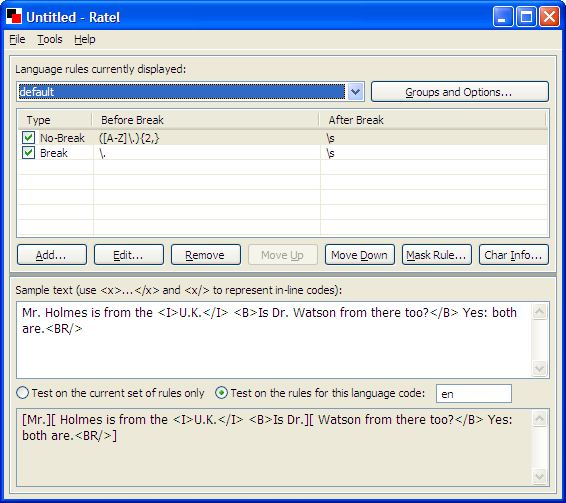
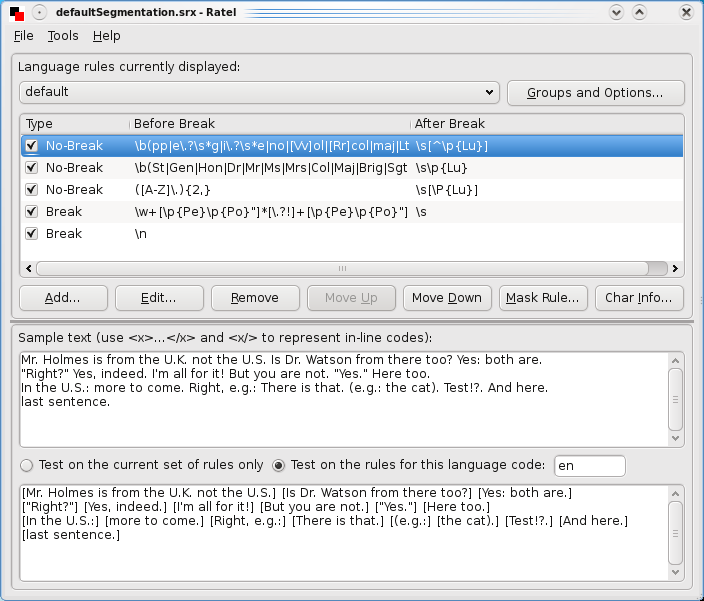
Replaced a screen shot of Ratel on XP by one on Kubuntu.
git-svn-id: https://okapi.googlecode.com/svn/trunk@3449 0cd2bb99-014b-0410-b875-5d0485b745ed

diff --git a/website/screenshots.html b/website/screenshots.html
@@ -97,9 +97,9 @@ Properties filter component (on Windows Vista):</p>
 <h2>
 <b><a name="ratel"></a></b> Ratel</h2>
 <p align="center">
-<b>Ratel</b> - The main window (on Windows XP):</p>
+<b>Ratel</b> - The main window (on Kubuntu):</p>
 <p align="center">
-<img border="0" src="images/ratel1.png" width="566" height="503"></p>
+<img border="0" src="images/ratel1.png" width="704" height="601"></p>
 <p align="center">
 &nbsp;</p>
 <p align="center">

diff --git a/website/applications.html b/website/applications.html
@@ -87,7 +87,7 @@ sets of tools.</p>
 	<li><a href="screenshots.html#ratel">See more screenshots</a></li>
 </ul></td>
 		<td align="left" valign="top">&nbsp;&nbsp;&nbsp;&nbsp;&nbsp;
-		<img border="0" src="images/ratel1.png" width="566" height="503"></td>
+		<img border="0" src="images/ratel1.png" width="704" height="601"></td>
 	</tr>
 </table>
 <p>&nbsp;</p>
